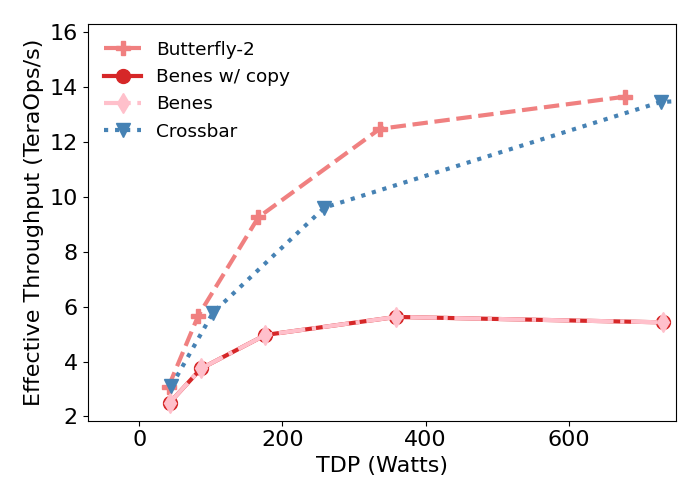
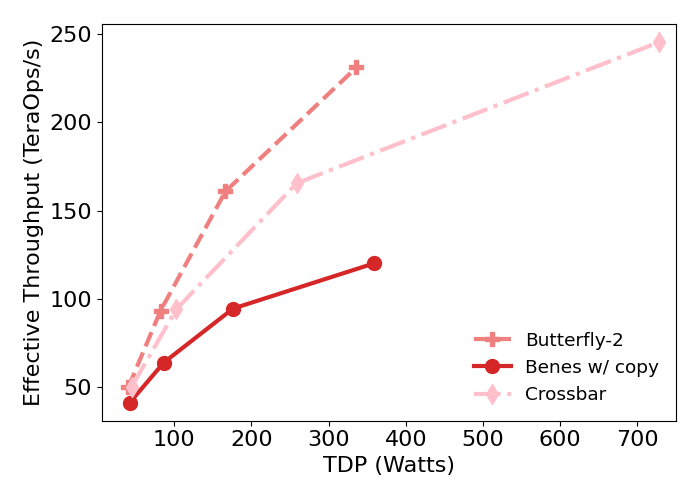
experiments for interconnect

diff --git a/plots/plot_interconnect.py b/plots/plot_interconnect.py
@@ -45,7 +45,7 @@ def get_result(target, fields, out_jsons):
         return res[0]
 
 if __name__=="__main__":
-    out_dir = "experiments/2021-10-07-18-41-28"
+    out_dir = "experiments/2021-10-10-13-53-10"
 
     files = os.listdir(out_dir)
 
@@ -64,18 +64,18 @@ if __name__=="__main__":
     batch_size = out_jsons[0]["batch_size"]
     imsize = out_jsons[0]["imsize"]
 
-    no_seqs = [20, 60, 100]
+    no_seqs = [100]
     cnn_models = ["inception", "resnet50", "densenet121"]
     bert_models = ["bert_small", "bert_base", "bert_large"]
 
     # interconn_keys = [65, 32, 48, 16]
     # labels = ["Butterfly-2", "Benes w/ copy", "Benes", "Crossbar"]
     
-    interconn_keys = [129, 64, 16]
+    interconn_keys = [129, 32, 16]
     labels = ["Butterfly-2", "Benes w/ copy", "Crossbar"]
         
     
-    no_arrays = [32,64,128,256,512]
+    no_arrays = [32,64,128,256]
 
     e_data = 4.1e-12 #J per byte
     e_compute = 0.4e-12 #J per MAC

diff --git a/precompiler/precompile.py b/precompiler/precompile.py
@@ -104,7 +104,7 @@ def main():
     parser = argparse.ArgumentParser()
     parser.add_argument('--model', type=str, required=False, default='bert_base')
     parser.add_argument('--batch_size', type=int, required=False, default=1, help='Batch size')
-    parser.add_argument('--sentence_len', type=int, required=False, default=100, help='Sentence length for transformer model')
+    parser.add_argument('--sentence_len', type=int, required=False, default=60, help='Sentence length for transformer model')
     parser.add_argument('--imsize', type=int, required=False, default=299)  
     parser.add_argument('--array_size', type=int, nargs='+', required=False, default=[32,32], help='Array size')
     parser.add_argument('--out_dir', type=str, required=False, default="experiments/tmp")
